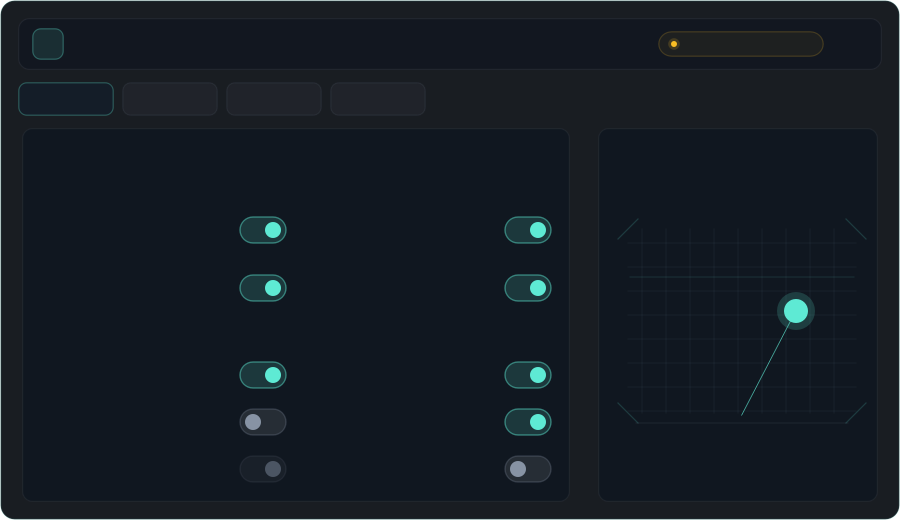
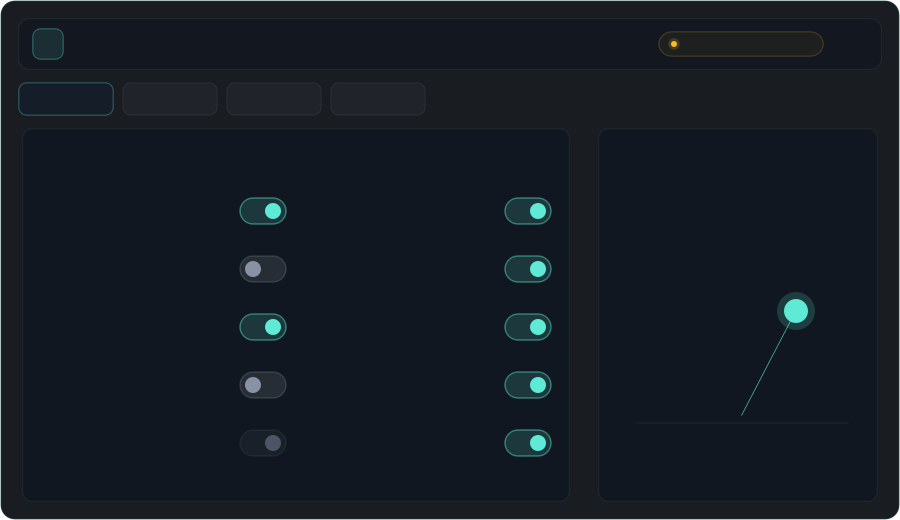
回退 ESP 页界面布局

Changed region(s): [[0.2489, 0.3692, 0.3422, 0.9231], [0.56, 0.3692, 0.6222, 0.9231]]

diff --git a/chameleon_lens/ui/menu.py b/chameleon_lens/ui/menu.py
@@ -30,7 +30,6 @@ class Menu(QWidget):
         self.radar_previews = []
         self.appearance_previews = []
         self.local_ray_switch = None
-        self.local_ray_row = None
         self.slider_controls = {}
         self._config_save_timer = QTimer(self)
         self._config_save_timer.setSingleShot(True)
@@ -142,45 +141,35 @@ class Menu(QWidget):
         body.setSpacing(24)
 
         panel, layout = self._panel("ESP 显示", "目标点、标签和射线控制", 548)
-        basic_controls = [
+        grid = QGridLayout()
+        grid.setContentsMargins(0, 0, 0, 0)
+        grid.setHorizontalSpacing(18)
+        grid.setVerticalSpacing(2)
+
+        controls = [
             ("覆盖层", "启用透明窗口绘制", "enabled", None),
             ("ESP 绘制", "控制目标点、标签和射线", "esp_enabled", self._refresh_ray_dependencies),
+            ("猎人 ESP", "显示猎人的点、标签和雷达点", "show_hunter_esp", None),
             ("目标圆点", "以低干扰点位标记目标", "box_esp", None),
-            ("边缘提示", "屏幕外目标钳到边缘显示", "show_edge_indicators", None),
-        ]
-        label_ray_controls = [
             ("名称标签", "显示目标名称", "show_names", None),
             ("距离标签", "显示目标距离", "show_distance", None),
             ("本地标记", "显示自己的点位", "show_local", self._refresh_ray_dependencies),
             ("ESP 射线", "从底部绘制目标指向线", "snap_lines", self._refresh_ray_dependencies),
             ("自身射线", "需开启本地标记与 ESP 射线", "show_local_snap_line", None),
-            ("猎人 ESP", "显示猎人的点、标签和雷达点", "show_hunter_esp", None),
+            ("边缘提示", "屏幕外目标钳到边缘显示", "show_edge_indicators", None),
         ]
+        for index, (label, desc, attr, after_change) in enumerate(controls):
+            switch = self._switch_control(attr, after_change)
+            if attr == "show_local_snap_line":
+                self.local_ray_switch = switch
+            grid.addWidget(self._control_row(label, desc, switch, height=56), index // 2, index % 2)
 
-        layout.addWidget(self._section_label("基础显示"))
-        layout.addLayout(self._switch_grid(basic_controls))
-        layout.addSpacing(12)
-        layout.addWidget(self._section_label("标签与射线"))
-        layout.addLayout(self._switch_grid(label_ray_controls))
+        layout.addLayout(grid)
         layout.addStretch()
         self._refresh_ray_dependencies()
         body.addWidget(panel)
         body.addWidget(self._esp_preview_panel())
         return page
-
-    def _switch_grid(self, controls):
-        grid = QGridLayout()
-        grid.setContentsMargins(0, 8, 0, 0)
-        grid.setHorizontalSpacing(18)
-        grid.setVerticalSpacing(2)
-        for index, (label, desc, attr, after_change) in enumerate(controls):
-            switch = self._switch_control(attr, after_change)
-            row = self._control_row(label, desc, switch, height=56)
-            if attr == "show_local_snap_line":
-                self.local_ray_switch = switch
-                self.local_ray_row = row
-            grid.addWidget(row, index // 2, index % 2)
-        return grid
 
     def _build_radar_page(self):
         page = QWidget()
@@ -359,18 +348,7 @@ class Menu(QWidget):
         text_col.addStretch()
         row.addLayout(text_col, 1)
         row.addWidget(control)
-        frame.title_label = title_label
-        frame.desc_label = desc_label
-        frame.control = control
         return frame
-
-    def _set_row_enabled(self, row, enabled):
-        row.setEnabled(enabled)
-        title_color = "#f4f7fb" if enabled else "#6b7687"
-        desc_color = "#687486" if enabled else "#3f4a5a"
-        row.title_label.setStyleSheet(f"color: {title_color}; font-size: 13px; font-weight: 600;")
-        row.desc_label.setStyleSheet(f"color: {desc_color}; font-size: 10px; font-weight: 400;")
-        row.control.setEnabled(enabled)
 
     def _info_row(self, label, value):
         frame = QFrame()
@@ -516,13 +494,12 @@ class Menu(QWidget):
         save_config(self.config)
 
     def _refresh_ray_dependencies(self):
-        if not self.local_ray_switch or not self.local_ray_row:
+        if not self.local_ray_switch:
             return
         enabled = self.config.esp_enabled and self.config.snap_lines and self.config.show_local
-        self._set_row_enabled(self.local_ray_row, enabled)
+        self.local_ray_switch.setEnabled(enabled)
         tip = "" if enabled else "需先开启 ESP 绘制、本地标记和 ESP 射线"
         self.local_ray_switch.setToolTip(tip)
-        self.local_ray_row.setToolTip(tip)
 
     def _refresh_preview(self):
         for preview in self.esp_previews:

diff --git a/chameleon_lens/ui/widgets.py b/chameleon_lens/ui/widgets.py
@@ -450,7 +450,6 @@ class EspPreview(QWidget):
         painter.drawText(2, 20, "目标视图")
 
         scene = QRectF(2, 36, self.width() - 4, 204)
-        _draw_hud_canvas(painter, scene, self.config.esp_enabled)
         origin = QPointF(scene.center().x(), scene.bottom() - 8)
         hunter = QColor(*self.config.hunter_color)
         survivor = QColor(*self.config.survivor_color)

diff --git a/DEVELOPMENT.md b/DEVELOPMENT.md
@@ -46,13 +46,13 @@
 - 运行依赖统一通过项目内 `.venv` 管理，用户入口优先使用 `启动 Chameleon Lens.bat`。
 - 配置持久化使用项目根目录 `config.json`。当前配置字段数量少、结构固定，JSON 比 SQLite 更轻，便于手动排查和迁移；保存采用临时文件替换，避免写入中断导致配置损坏。
 - UI 信息架构按 `ESP / 雷达 / 外观 / 调试` 四个顶部页签组织：ESP 页只放目标点、标签和射线控制，雷达页只放雷达与参数，外观页只放透明度、点半径和颜色。
-- ESP 页使用“基础显示 / 标签与射线”两组开关和 ESP 效果预览；雷达预览只出现在雷达页，避免一个页签同时承载两个主题。
+- ESP 页使用两列开关布局和 ESP 效果预览；雷达预览只出现在雷达页，避免一个页签同时承载两个主题。
 - 运行状态放在标题栏右上角；标题栏只保留品牌、连接状态和窗口控制，不再显示透明度胶囊或副标题。
 - 连接状态使用自绘状态胶囊，标题栏只显示单行主状态：“未连接 · 等待进程”或“已连接 · 游戏进程”；详细错误和重试信息放在调试页。
 - 滑条使用可点击轨道控件并通过 `QPainter` 自绘，避免 QSS 滑条在圆角和 handle 上出现毛刺；开关需要让整个控件区域都可点击。
 - 开关使用 `QPropertyAnimation` 做短距离滑动动画，动画时间保持在 150ms 左右，避免影响工具响应感。
 - 主要容器、标题栏和内容面板使用 `SmoothFrame` 自绘，避免 QSS 的半透明圆角边框毛刺。
-- 顶部页签使用 `TabButton` 自绘，不再使用底部横条。Qt StyleSheet 的 `border + border-radius + 半透明背景` 在 Windows 上容易出现圆角毛刺，Logo、关闭按钮、关键按钮、调色板候选色、颜色预览和主要操作按钮优先用 `QPainter` 抗锯齿绘制。ESP 与雷达预览共享开放 HUD 画布，用低透明网格、扫描线和角标填补空白，但不再增加内层卡片边框。
+- 顶部页签使用 `TabButton` 自绘，不再使用底部横条。Qt StyleSheet 的 `border + border-radius + 半透明背景` 在 Windows 上容易出现圆角毛刺，Logo、关闭按钮、关键按钮、调色板候选色、颜色预览和主要操作按钮优先用 `QPainter` 抗锯齿绘制。雷达预览使用开放 HUD 画布，用低透明网格、扫描线和角标填补空白，但不再增加内层卡片边框。
 - 自绘按钮、页签、关闭按钮和调色板候选色使用轻量 hover 过渡；滑条在 hover/拖动时改变轨道与滑块状态，提升可操作感但不做夸张动效。
 - `enabled` 是覆盖层总开关；`esp_enabled` 只控制屏幕 ESP 绘制，关闭后目标点、标签、射线和边缘提示都不画，但雷达仍由 `radar_enabled` 独立控制。
 - 覆盖层分离三个刷新节奏：绘制约 60 FPS，目标快照采样约 30 FPS，窗口位置和尺寸约每 250ms 更新一次。不要直接把绘制 timer 拉高来解决感知问题，先看调试日志里的 `performance.sample_ms` 和 `performance.paint_ms`。
@@ -61,7 +61,7 @@
 - 名称标签优先读取 `APlayerState::CustomPlayerName`，按 FText/FString 都尝试；失败后再读 `APlayerState::PlayerNamePrivate` 的 FString，最后才回退为“玩家 短 ID”、`PlayerId` 或“目标 N”。短 ID 不再用 `#xxxxxx`，避免和颜色 Hex 格式混淆。`CustomPlayerName`、`PlayerNamePrivate`、`PlayerId` 都采用动态属性解析优先，失败时使用历史日志确认过的 `0x388`、`0x340`、`0x2AC` 兜底。PlayerState 显示名会短时缓存，只有开启数据记录时才写入完整 `name_candidates`。
 - 名称候选只允许中文、英文、数字和少量昵称符号；`BP_`、`MI_`、`Default__`、`Character`、`Material` 等蓝图/资源/对象标识会被过滤，避免覆盖层显示乱码或内部对象名。
 - `snap_lines` 控制普通 ESP 射线；`show_local_snap_line` 只控制本地玩家是否绘制自身 ESP 射线。
-- `show_local_snap_line` 依赖 `esp_enabled`、`show_local` 与 `snap_lines`，任一关闭时自身射线整行降权置灰但保留用户选择。
+- `show_local_snap_line` 依赖 `show_local` 与 `snap_lines`，两者任一关闭时自身射线开关置灰但保留用户选择。
 - 覆盖层默认只使用 PlayerArray，不再使用 Level Actor fallback 参与实际绘制，避免场景残留、尸体和旧实例混进覆盖层。`reader.iter_players()` 返回 `TargetSnapshot`，旧五元组迭代仍保留兼容。
 - 目标枚举采用极简策略：PlayerArray 里除本地玩家和死亡/观战 pawn 外全部进入绘制流程，不再用 Character 白名单或反向绑定延迟过滤。`SpectatePawn` 不再直接等价死亡：先检查 `SpectatePawn + 0x1A0` 是否指向真实 Character，且该 Character 的 `LastMyPlayerState` 或 `APawn::PlayerState` 匹配当前 PlayerState、`Dead=0`、坐标有效；命中时使用真实 Character 绘制并计入 `pa_linked`，否则才计入 `pa_dead`。
 - 类名用于角色和形态分类：`Hunter` 记为猎人，`Survivor` 记为躲藏者，`Spectate` 记为观战；形态从类名中的 `Cube`、`Base` 等 token 推断。感染、基础、双重模式都会让同一 PlayerState 在躲藏者、猎人、观战之间合法切换，因此不能把“曾经是躲藏者”当永久身份。

diff --git a/docs/UI_CONCEPT.md b/docs/UI_CONCEPT.md
@@ -19,9 +19,9 @@
 - `docs/ui_concept_v4.png`：第四版回到顶部 Tab 结构，配色统一收敛到深蓝黑 + 青绿色，保留 V3 的卡片层级和雷达视觉中心。
 - `docs/ui_concept_v5.png`：第五版收敛为精简仪器面板，窗口尺寸 900 x 520，收窄外层内边距，放大字号和行高，去掉总览大屏、主界面日志和状态卡，保留 `ESP / 雷达 / 外观 / 调试` 顶部 Tab、自绘连接状态胶囊、动画开关、ESP 两列开关区和右侧 ESP 效果预览。
 - `docs/ui_actual_v2.png`：真实 PyQt 菜单离屏渲染图。当前 Qt offscreen 环境可能不渲染控件文字，主要用于检查控件布局与尺寸。
-- `docs/ui_actual_v5.png`：V5 真实 PyQt 菜单离屏渲染图，用于检查 ESP 分组、HUD 预览画布、窗口尺寸和页签切换后的结构。
-- `docs/ui_radar_tab.png`：雷达页真实 PyQt 菜单离屏渲染图，用于检查雷达预览和 ESP 预览的开放 HUD 风格是否一致。
+- `docs/ui_actual_v5.png`：V5 真实 PyQt 菜单离屏渲染图，用于检查 ESP 两列布局、窗口尺寸和页签切换后的结构。
+- `docs/ui_radar_tab.png`：雷达页真实 PyQt 菜单离屏渲染图，用于检查雷达开放 HUD 方位预览。
 - `docs/ui_actual_appearance.png`：外观页真实 PyQt 菜单离屏渲染图，用于检查横向色板、滑条和外观预览。
 - `docs/ui_color_picker.png`：自定义深色颜色选择面板，替代系统默认颜色对话框。
 
-当前 PyQt 菜单已按 V5 方向落地：保持横向矩形和顶部 Tab，但避免仪表盘化。ESP 页按“基础显示 / 标签与射线”分组，依赖未满足的“自身射线”会整行降权；右侧 ESP 与雷达预览共享开放 HUD 画布，用轻量网格、扫描线和角标减少空白感，但不增加内框堆叠。雷达页显示雷达参数和方位预览；外观页按“绘制参数 / 颜色方案”分区处理透明度、圆点半径和横向色板，并提供恢复默认外观。控制项标题和说明采用紧凑两行布局，避免说明文字与标题被拉开。顶部 Tab 不使用底部横条，主容器、标题栏、内容面板、Logo、关键按钮、关闭按钮、状态胶囊、开关、滑条、调色板候选色和颜色预览优先采用自绘抗锯齿，避免 Qt StyleSheet 圆角边框毛刺。自绘按钮和页签保留轻量 hover 过渡，滑条在 hover/拖动时给出反馈。目标进程未出现时，覆盖层保持透明安静，不再在屏幕上绘制等待提示卡。菜单仅标题栏可拖动，右上角关闭按钮用于退出程序。
+当前 PyQt 菜单已按 V5 方向落地：保持横向矩形和顶部 Tab，但避免仪表盘化。ESP 页保持两列开关布局和简洁目标预览；雷达页显示雷达参数和开放 HUD 方位预览，用轻量网格、扫描线和角标减少空白感，但不增加内框堆叠。外观页按“绘制参数 / 颜色方案”分区处理透明度、圆点半径和横向色板，并提供恢复默认外观。控制项标题和说明采用紧凑两行布局，避免说明文字与标题被拉开。顶部 Tab 不使用底部横条，主容器、标题栏、内容面板、Logo、关键按钮、关闭按钮、状态胶囊、开关、滑条、调色板候选色和颜色预览优先采用自绘抗锯齿，避免 Qt StyleSheet 圆角边框毛刺。自绘按钮和页签保留轻量 hover 过渡，滑条在 hover/拖动时给出反馈。目标进程未出现时，覆盖层保持透明安静，不再在屏幕上绘制等待提示卡。菜单仅标题栏可拖动，右上角关闭按钮用于退出程序。

diff --git a/README.md b/README.md
@@ -11,8 +11,7 @@
 - 覆盖层绘制、目标采样和窗口位置更新分离，减少每帧重复读内存和查找窗口带来的卡顿。
 - 提供一键启动批处理，会自动创建 `.venv` 并安装依赖。
 - 横向精简仪器面板，顶部页签按 ESP、雷达、外观、调试组织，运行状态显示在标题栏右上角。
-- ESP 页按“基础显示 / 标签与射线”分组，依赖项禁用时整行降权，减少误操作。
-- ESP 和雷达预览统一为开放 HUD 画布，用轻量网格、扫描线和角标补足画面，不再堆叠内层卡片。
+- 雷达预览使用开放 HUD 画布，用轻量网格、扫描线和角标补足画面，不再堆叠内层卡片。
 - 菜单仅标题栏可拖动，右上角关闭按钮会退出程序。
 - 自绘连接状态胶囊、动画开关、hover 按钮和可点击滑条，避免系统默认控件破坏整体质感。
 - 自定义深色颜色选择面板，不调用系统默认颜色对话框。

diff --git a/docs/DEVELOPMENT_GUIDE.md b/docs/DEVELOPMENT_GUIDE.md
@@ -48,7 +48,7 @@
 涉及 UI 布局：
 
 - 重新生成 `docs/ui_actual_v5.png`。
-- 检查主窗口、ESP 分组、雷达页、外观页横向色板和调色板截图。
+- 检查主窗口、ESP 两列布局、雷达页、外观页横向色板和调色板截图。
 
 涉及目标过滤：
 